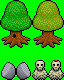
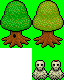
Chest and rock sprites added.
git-svn-id: http://rpg-world.googlecode.com/svn/trunk@151 b611d880-fc3a-11dd-a7be-4b3ef3b0700c

Changed region(s): [[0.0, 0.6, 0.5, 1.0]]

diff --git a/game/src/rpg/staticsprites.py b/game/src/rpg/staticsprites.py
@@ -65,6 +65,42 @@ class Key(OtherSprite):
         player.incrementKeyCount()
         self.toRemove = True
 
+class Chest(OtherSprite):
+    
+    framesImage = None
+    
+    baseRectSize = (8 * SCALAR, BASE_RECT_HEIGHT)
+        
+    def __init__(self, rpgMap):
+        if Chest.framesImage is None:    
+            imagePath = os.path.join(SPRITES_FOLDER, "chest.png")
+            Chest.framesImage = view.loadScaledImage(imagePath, None)        
+        animationFrames = view.processStaticFrames(Chest.framesImage, 1)
+        spriteFrames = StaticFrames(animationFrames, 6)
+        OtherSprite.__init__(self, rpgMap, spriteFrames)
+        
+    # override
+    def advanceFrame(self, increment, metadata):
+        pass
+                
+class Rock(OtherSprite):
+    
+    framesImage = None
+    
+    baseRectSize = (8 * SCALAR, BASE_RECT_HEIGHT)
+        
+    def __init__(self, rpgMap):
+        if Rock.framesImage is None:    
+            imagePath = os.path.join(SPRITES_FOLDER, "rock.png")
+            Rock.framesImage = view.loadScaledImage(imagePath, None)        
+        animationFrames = view.processStaticFrames(Rock.framesImage, 1)
+        spriteFrames = StaticFrames(animationFrames, 6)
+        OtherSprite.__init__(self, rpgMap, spriteFrames, (0, -4))
+        
+    # override
+    def advanceFrame(self, increment, metadata):
+        pass
+                
 class Door(OtherSprite):
     
     framesImage = None

diff --git a/game/src/rpg/spritebuilder.py b/game/src/rpg/spritebuilder.py
@@ -3,12 +3,14 @@
 import pygame
 
 from othersprites import Beetle, Wasp
-from staticsprites import Flames, Coin, Key, Door
+from staticsprites import Flames, Coin, Key, Chest, Rock, Door
 
 # map of sprite classes keyed on type
 spriteClasses = {"flames": Flames,
                  "coin": Coin,
                  "key": Key,
+                 "chest": Chest,
+                 "rock": Rock,
                  "door": Door,
                  "beetle": Beetle,
                  "wasp": Wasp}
